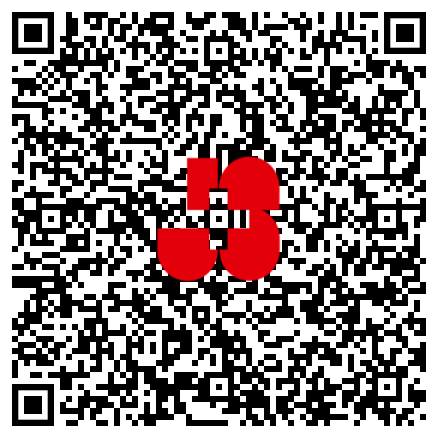
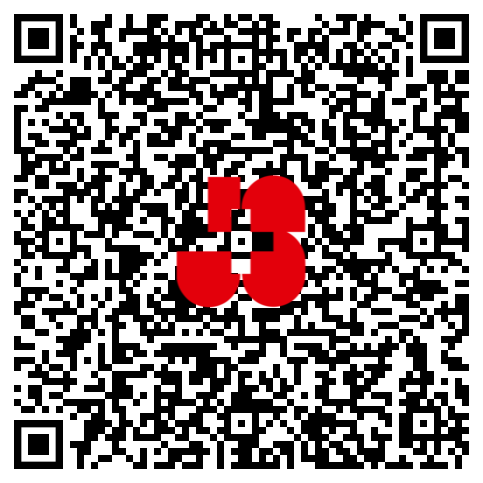
update qr codes and links

diff --git a/index.html b/index.html
@@ -28,7 +28,7 @@
             <hr>
             <div>
                 <p>
-                    <a href="https://www.apps.baspo.admin.ch/ndbjs/kursprogramm/kursplan.aspx?spr=d&sportartcode=711">Hier</a> findest du den Kursplan aller J+S Snowboard Kurse der kommenden Saison. <br>
+                    <a href="https://www.nds.baspo.admin.ch/publicArea/cadreEducationStructure/cadre/education-structure/1000000000021050725/schedule?lang=de&CadreEducationCourse_jsCoursePlan=%7B%22searchDefinition%22:%7B%22courseNumber%22:%22LU%20711%22%7D,%22filterDefinition%22:%7B%7D%7D">Hier</a> findest du den Kursplan aller J+S Snowboard Kurse der kommenden Saison. <br>
                     Folgend findest du Links und QR-codes zu allen Luzerner Kursen.
                 </p>
             </div>
@@ -36,7 +36,7 @@
             <div class="container-fluid">
                 <div class="row">
                     <div class="col-lg-6">
-                        <a class="thumbnailhl" href='https://www.apps.baspo.admin.ch/ndbjs/kursprogramm/leiterkurs.aspx?spr=d&pm=p195979&sportartid=58&wann=202301&woher=kp&kursartid=5029&von=12.11.2022&bis=12.11.2023' rel="noopener" target="_blank">
+                        <a class="thumbnailhl" href='https://www.nds.baspo.admin.ch/publicArea/cadreEducationStructure/cadre/education-structure/1000000000021050725/schedule/registration/1000000000006323646' rel="noopener" target="_blank">
                             <div class="well">
                                     <img class="img-fluid thumbnail" src='/res/GA.png' onmouseover="this.src='/res/qr_GA.png';" onmouseout="this.src='/res/GA.png';" />
                                 <h2 class="text-center"><small>Grundausbildung</small></h2>
@@ -44,7 +44,7 @@
                         </a>
                     </div>
                     <div class="col-lg-6">
-                        <a class="thumbnailhl" href='https://www.apps.baspo.admin.ch/ndbjs/kursprogramm/leiterkurs.aspx?spr=d&pm=p195980&sportartid=58&wann=202301&woher=kp&kursartid=1160&von=12.11.2022&bis=12.11.2023' rel="noopener" target="_blank">
+                        <a class="thumbnailhl" href='https://www.nds.baspo.admin.ch/publicArea/cadreEducationStructure/cadre/education-structure/1000000000021050725/schedule/registration/1000000000006323645' rel="noopener" target="_blank">
                             <div class="well">
                                     <img class="img-fluid thumbnail" src='/res/MM.png' onmouseover="this.src='/res/qr_MM.png';" onmouseout="this.src='/res/MM.png';" />
                                 <h2 class="text-center"><small>Methodik Allround</small></h2>
@@ -52,7 +52,7 @@
                         </a>
                     </div>
                     <div class="col-lg-6">
-                        <a class="thumbnailhl" href='https://www.apps.baspo.admin.ch/ndbjs/kursprogramm/leiterkurs.aspx?spr=d&pm=p195978&sportartid=58&wann=202212&woher=kp&kursartid=4692&von=12.11.2022&bis=12.11.2023' rel="noopener" target="_blank">
+                        <a class="thumbnailhl" href='https://www.nds.baspo.admin.ch/publicArea/cadreEducationStructure/cadre/education-structure/1000000000021050725/schedule/registration/1000000000006323687' rel="noopener" target="_blank">
                             <div class="well">
                                     <img class="img-fluid thumbnail" src='/res/FK1.png' onmouseover="this.src='/res/qr_FK1.png';" onmouseout="this.src='/res/FK1.png';" />
                                 <h2 class="text-center"><small>Modul Fortbildung 1</small></h2>
@@ -60,7 +60,7 @@
                         </a>
                     </div>
                     <div class="col-lg-6">
-                        <a class="thumbnailhl" href='https://www.apps.baspo.admin.ch/ndbjs/kursprogramm/leiterkurs.aspx?spr=d&pm=p195981&sportartid=58&wann=202301&woher=kp&kursartid=4692&von=12.11.2022&bis=12.11.2023' rel="noopener" target="_blank">
+                        <a class="thumbnailhl" href='https://www.nds.baspo.admin.ch/publicArea/cadreEducationStructure/cadre/education-structure/1000000000021050725/schedule/registration/1000000000006323642' rel="noopener" target="_blank">
                             <div class="well">
                                     <img class="img-fluid thumbnail" src='/res/FK2_.png' onmouseover="this.src='/res/qr_FK2.png';" onmouseout="this.src='/res/FK2_.png';" />
                                 <h2 class="text-center"><small>Modul Fortbildung 2</small></h2>
@@ -68,7 +68,7 @@
                         </a>
                     </div>
                     <div class="col-lg-6">
-                        <a class="thumbnailhl" href='https://www.apps.baspo.admin.ch/ndbjs/kursprogramm/leiterkurs.aspx?spr=d&pm=p195984&sportartid=58&wann=202303&woher=kp&kursartid=4692&von=12.11.2022&bis=12.11.2023' rel="noopener" target="_blank">
+                        <a class="thumbnailhl" href='https://www.nds.baspo.admin.ch/publicArea/cadreEducationStructure/cadre/education-structure/1000000000021050725/schedule/registration/1000000000006323651' rel="noopener" target="_blank">
                             <div class="well">
                                     <img class="img-fluid thumbnail" src='/res/Pipe.png' onmouseover="this.src='/res/qr_Pipe.png';" onmouseout="this.src='/res/Pipe.png';" />
                                 <h2 class="text-center"><small>Freestyle Halfpipe</small></h2>
@@ -76,7 +76,7 @@
                         </a>
                     </div>
                     <div class="col-lg-6">
-                        <a class="thumbnailhl" href='https://www.apps.baspo.admin.ch/ndbjs/kursprogramm/leiterkurs.aspx?spr=d&pm=p195982&sportartid=58&wann=202302&woher=kp&kursartid=4692&von=12.11.2022&bis=12.11.2023' rel="noopener" target="_blank">
+                        <a class="thumbnailhl" href='https://www.nds.baspo.admin.ch/publicArea/cadreEducationStructure/cadre/education-structure/1000000000021050725/schedule/registration/1000000000006323688' rel="noopener" target="_blank">
                             <div class="well">
                                     <img class="img-fluid thumbnail" src='/res/Park.png' onmouseover="this.src='/res/qr_Park.png';" onmouseout="this.src='/res/Park.png';" />
                                 <h2 class="text-center"><small>Freestyle Park/Slope</small></h2>
@@ -84,7 +84,7 @@
                         </a>
                     </div>
                     <div class="col-lg-6">
-                        <a class="thumbnailhl" href='https://www.apps.baspo.admin.ch/ndbjs/kursprogramm/leiterkurs.aspx?spr=d&pm=p195985&sportartid=58&wann=202303&woher=kp&kursartid=4692&von=12.11.2022&bis=12.11.2023' rel="noopener" target="_blank">
+                        <a class="thumbnailhl" href='https://www.nds.baspo.admin.ch/publicArea/cadreEducationStructure/cadre/education-structure/1000000000021050725/schedule/registration/1000000000006323652' rel="noopener" target="_blank">
                             <div class="well">
                                     <img class="img-fluid thumbnail" src='/res/Carve.png' onmouseover="this.src='/res/qr_Carve.png';" onmouseout="this.src='/res/Carve.png';" />
                                 <h2 class="text-center"><small>Freestyle Carving</small></h2>
